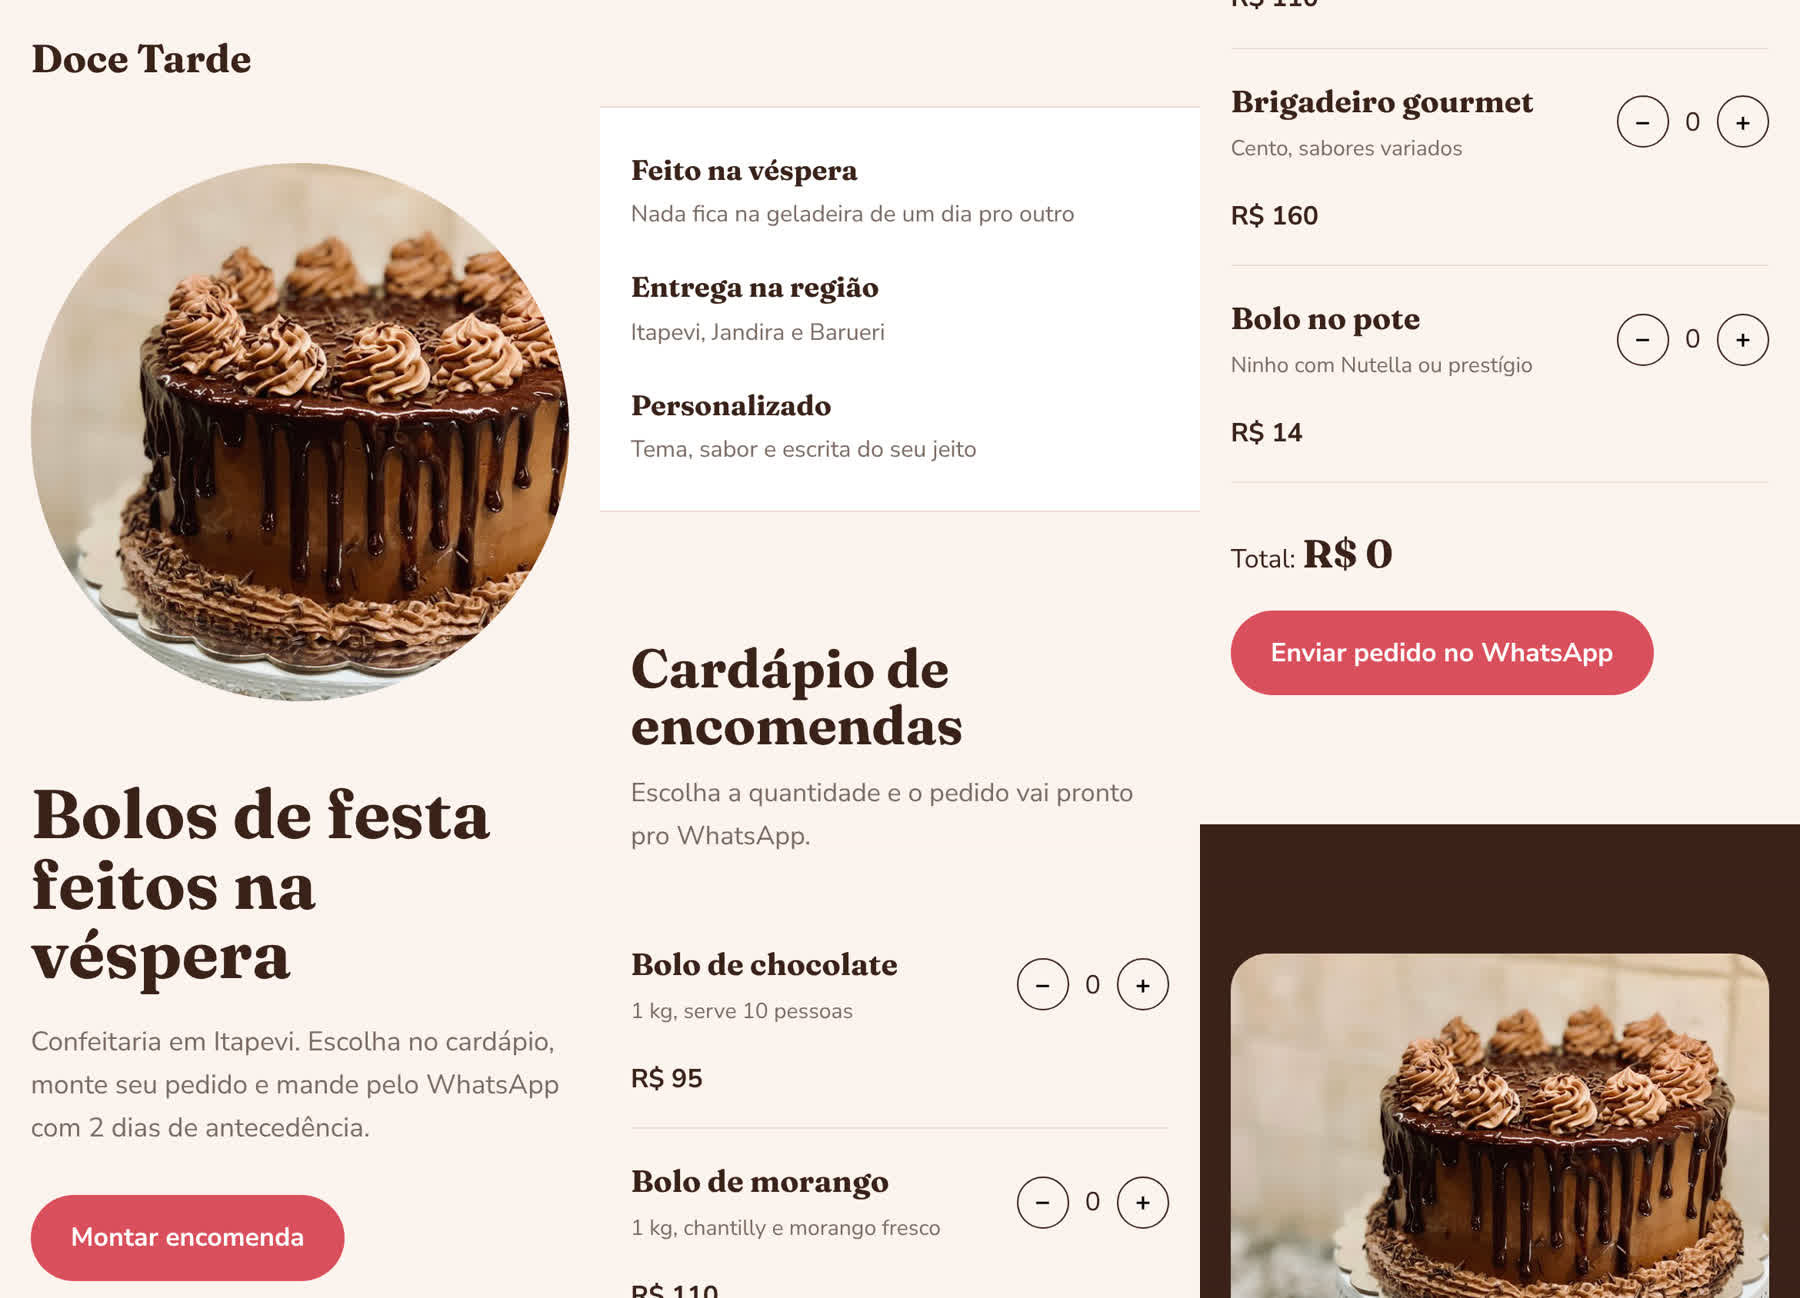
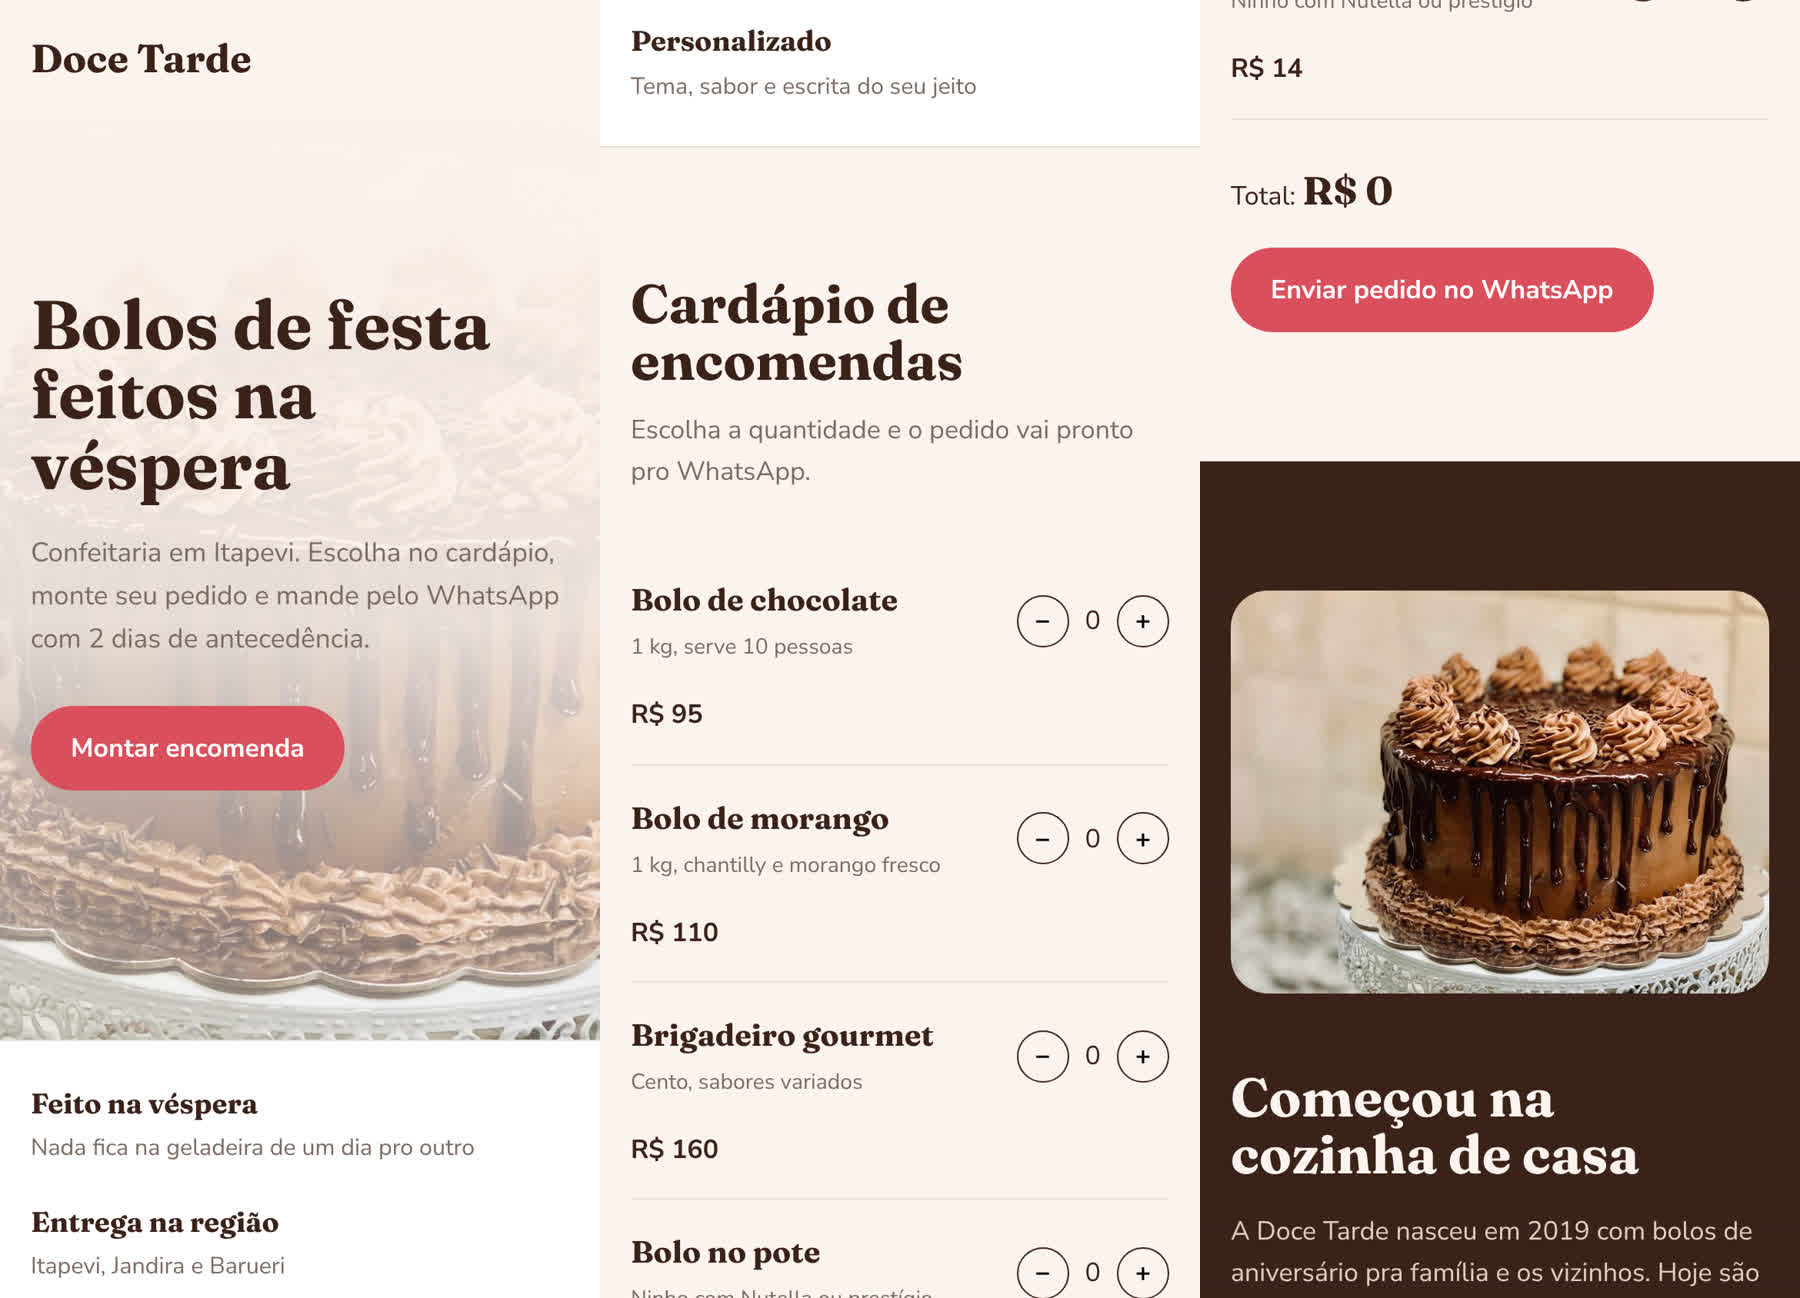
Foto de fundo no topo de todos os modelos
Claude-Session: https://claude.ai/code/session_01VVFaYFBazfBerGM9xmHanA

diff --git a/previas/modelos/salao.html b/previas/modelos/salao.html
@@ -17,13 +17,15 @@ a{color:inherit}img{max-width:100%;display:block}
 .menu{display:flex;gap:30px;font-weight:400}.menu a{text-decoration:none}
 .btn{display:inline-block;background:var(--ameixa);color:var(--rosa-claro);text-decoration:none;font-weight:400;padding:14px 28px;letter-spacing:.02em}
 .btn.linha{background:none;color:var(--ameixa);border:1px solid var(--ameixa)}
-.hero{display:grid;grid-template-columns:1fr 1.1fr;min-height:620px}
+.hero{position:relative;display:grid;min-height:640px;color:#fff;background:#4b2737 url("https://images.unsplash.com/photo-1562322140-8baeececf3df?w=1800&q=70") 70% 30%/cover}
+.hero::before{content:"";position:absolute;inset:0;background:linear-gradient(90deg,rgba(60,28,42,.9) 0%,rgba(60,28,42,.6) 50%,rgba(60,28,42,.1) 100%)}
+.hero .txt{position:relative;max-width:640px}
 .hero .txt{display:grid;align-content:center;padding:60px max(20px,6vw)}
 .hero h1{font-family:var(--d);font-weight:500;font-size:clamp(3rem,6.4vw,5.4rem);line-height:1;margin:0 0 22px}
-.hero p{max-width:34ch;color:var(--cinza);margin:0 0 30px}
-.hero img{width:100%;height:100%;object-fit:cover}
-.prova{display:flex;align-items:center;gap:14px;margin-top:30px;font-size:.95rem;color:var(--cinza)}
-.prova b{font-family:var(--d);font-size:2rem;color:var(--ameixa);font-weight:600}
+.hero p{max-width:34ch;color:#f0dfe4;margin:0 0 30px}
+.hero .btn{background:#f7efea;color:var(--ameixa)}
+.prova{display:flex;align-items:center;gap:14px;margin-top:30px;font-size:.95rem;color:#f0dfe4}
+.prova b{font-family:var(--d);font-size:2rem;color:#fff;font-weight:600}
 section{padding-block:90px}
 h2{font-family:var(--d);font-weight:500;font-size:clamp(2.4rem,5vw,3.6rem);line-height:1.05;margin:0 0 12px}
 .sub{color:var(--cinza);margin:0 0 40px;max-width:46ch}
@@ -45,7 +47,7 @@ footer .in{display:flex;justify-content:space-between;flex-wrap:wrap;gap:20px}
 footer .marca{color:var(--rosa-claro)}
 .exemplo{font-size:.85rem;color:#c9adb8}
 :focus-visible{outline:2px solid var(--vinho);outline-offset:3px}
-@media (max-width:860px){.menu{display:none}.hero,.espaco{grid-template-columns:1fr}.hero img{max-height:440px;order:-1}.servicos{grid-template-columns:1fr 1fr}}
+@media (max-width:860px){.menu{display:none}.hero,.espaco{grid-template-columns:1fr}.hero{min-height:600px;background-position:72% 30%}.servicos{grid-template-columns:1fr 1fr}}
 @media (max-width:520px){.servicos{grid-template-columns:1fr}}
 </style>
 </head>
@@ -59,7 +61,6 @@ footer .marca{color:var(--rosa-claro)}
     <div><a class="btn" href="https://wa.me/5511900000000?text=Oi!%20Quero%20agendar%20um%20hor%C3%A1rio." target="_blank" rel="noopener">Agendar horário</a></div>
     <div class="prova"><b>4,9</b><span>no Google, com 186 avaliações</span></div>
   </div>
-  <img src="https://images.unsplash.com/photo-1562322140-8baeececf3df?w=1400&q=70" alt="Cabeleireira finalizando escova em cliente">
 </section>
 
 <section id="servicos"><div class="in">

diff --git a/previas/modelos/confeitaria.html b/previas/modelos/confeitaria.html
@@ -16,10 +16,12 @@ a{color:inherit}img{max-width:100%;display:block}
 .marca{font-family:var(--d);font-weight:700;font-size:1.6rem;text-decoration:none}
 .menu{display:flex;gap:26px;font-weight:600}.menu a{text-decoration:none}
 .btn{display:inline-block;background:var(--morango);color:#fff;text-decoration:none;font-weight:700;padding:14px 26px;border-radius:999px;border:0;font:inherit;font-weight:700;cursor:pointer}
-.hero .in{display:grid;grid-template-columns:1fr 1.1fr;gap:50px;align-items:center;padding-block:30px 80px}
+.hero{position:relative;background:#3a2219 url("https://images.unsplash.com/photo-1578985545062-69928b1d9587?w=1800&q=70") 70% 40%/cover}
+.hero::before{content:"";position:absolute;inset:0;background:linear-gradient(90deg,rgba(251,243,238,.97) 0%,rgba(251,243,238,.85) 42%,rgba(251,243,238,0) 75%)}
+.hero .in{position:relative;min-height:600px;display:grid;align-items:center;padding-block:30px 80px}
+.hero .in>div{max-width:540px}
 .hero h1{font-family:var(--d);font-weight:700;font-size:clamp(2.8rem,6vw,4.8rem);line-height:1.02;margin:0 0 20px}
 .hero p{color:var(--cinza);max-width:34ch;margin:0 0 30px;font-size:1.1rem}
-.hero img{width:100%;aspect-ratio:1/1;object-fit:cover;border-radius:50%}
 .vant{border-block:1px solid var(--linha);background:#fff}
 .vant .in{display:grid;grid-template-columns:repeat(3,1fr);gap:20px;padding-block:26px}
 .vant b{display:block;font-family:var(--d);font-size:1.15rem}.vant span{color:var(--cinza);font-size:.95rem}
@@ -41,7 +43,7 @@ h2{font-family:var(--d);font-weight:700;font-size:clamp(2.2rem,4.6vw,3.2rem);lin
 .historia img{width:100%;aspect-ratio:4/3;object-fit:cover;border-radius:24px}
 footer .in{display:flex;justify-content:space-between;flex-wrap:wrap;gap:16px;padding-block:36px;color:var(--cinza);font-size:.95rem}
 :focus-visible{outline:2px solid var(--morango);outline-offset:3px}
-@media (max-width:860px){.menu{display:none}.hero .in,.historia .in{grid-template-columns:1fr}.hero img{max-width:420px;order:-1}.vant .in{grid-template-columns:1fr}}
+@media (max-width:860px){.menu{display:none}.hero .in,.historia .in{grid-template-columns:1fr}.hero::before{background:linear-gradient(180deg,rgba(251,243,238,.97) 0%,rgba(251,243,238,.9) 55%,rgba(251,243,238,.35) 100%)}.hero{background-position:60% 80%}.vant .in{grid-template-columns:1fr}}
 @media (max-width:520px){.item{grid-template-columns:1fr auto}.item .preco{grid-column:1;grid-row:2}}
 </style>
 </head>
@@ -54,7 +56,6 @@ footer .in{display:flex;justify-content:space-between;flex-wrap:wrap;gap:16px;pa
     <p>Confeitaria em Itapevi. Escolha no cardápio, monte seu pedido e mande pelo WhatsApp com 2 dias de antecedência.</p>
     <a class="btn" href="#cardapio">Montar encomenda</a>
   </div>
-  <img src="https://images.unsplash.com/photo-1578985545062-69928b1d9587?w=1000&q=70" alt="Bolo de chocolate com cobertura e brigadeiros">
 </div></section>
 
 <div class="vant"><div class="in">

diff --git a/previas/modelos/advocacia.html b/previas/modelos/advocacia.html
@@ -18,11 +18,12 @@ a{color:inherit}img{max-width:100%;display:block}
 .marca small{display:block;font-family:var(--t);font-size:.8rem;color:#aab3c2}
 .menu{display:flex;gap:28px}.menu a{text-decoration:none;color:#d8dde6}
 .btn{display:inline-block;background:var(--garrafa);color:#fff;text-decoration:none;font-weight:600;padding:14px 26px}
-.hero{background:var(--marinho);color:var(--papel)}
-.hero .in{display:grid;grid-template-columns:1.1fr 1fr;gap:56px;align-items:center;padding-block:56px 84px}
+.hero{position:relative;color:var(--papel);background:var(--marinho) url("https://images.unsplash.com/photo-1589829545856-d10d557cf95f?w=1800&q=70") 75% 35%/cover}
+.hero::before{content:"";position:absolute;inset:0;background:linear-gradient(90deg,rgba(22,34,54,.95) 0%,rgba(22,34,54,.75) 50%,rgba(22,34,54,.25) 100%)}
+.hero .in{position:relative;min-height:600px;display:grid;align-items:center;padding-block:56px 84px}
+.hero .in>div{max-width:620px}
 .hero h1{font-family:var(--d);font-weight:400;font-size:clamp(2.6rem,5.2vw,4.2rem);line-height:1.08;margin:0 0 22px}
 .hero p{color:#c4ccd8;max-width:38ch;margin:0 0 30px}
-.hero img{width:100%;aspect-ratio:4/5;object-fit:cover;filter:grayscale(.2)}
 section{padding-block:88px}
 h2{font-family:var(--d);font-weight:400;font-size:clamp(2.1rem,4.4vw,3rem);line-height:1.1;margin:0 0 12px}
 .sub{color:var(--cinza);margin:0 0 40px;max-width:48ch}
@@ -41,7 +42,7 @@ h2{font-family:var(--d);font-weight:400;font-size:clamp(2.1rem,4.4vw,3rem);line-
 footer{background:var(--marinho);color:#c4ccd8;padding-block:44px}
 footer .in{display:flex;justify-content:space-between;flex-wrap:wrap;gap:16px;font-size:.95rem}
 :focus-visible{outline:2px solid var(--garrafa);outline-offset:3px}
-@media (max-width:860px){.menu{display:none}.hero .in,.sobre{grid-template-columns:1fr}.hero img{max-height:420px}.areas{grid-template-columns:1fr 1fr}}
+@media (max-width:860px){.menu{display:none}.hero .in,.sobre{grid-template-columns:1fr}.hero{background-position:70% 35%}.areas{grid-template-columns:1fr 1fr}}
 @media (max-width:520px){.areas{grid-template-columns:1fr}}
 </style>
 </head>
@@ -54,7 +55,6 @@ footer .in{display:flex;justify-content:space-between;flex-wrap:wrap;gap:16px;fo
     <p>Escritório em Barueri com atuação em direito de família, trabalhista, imobiliário e do consumidor.</p>
     <a class="btn" href="https://wa.me/5511900000000?text=Ol%C3%A1!%20Gostaria%20de%20agendar%20uma%20consulta." target="_blank" rel="noopener">Agendar uma consulta</a>
   </div>
-  <img src="https://images.unsplash.com/photo-1589829545856-d10d557cf95f?w=900&q=70" alt="Estátua da justiça com balança">
 </div></section>
 
 <section id="areas"><div class="in">
